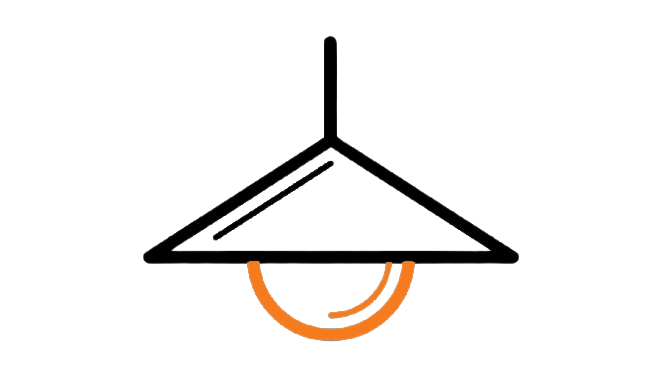
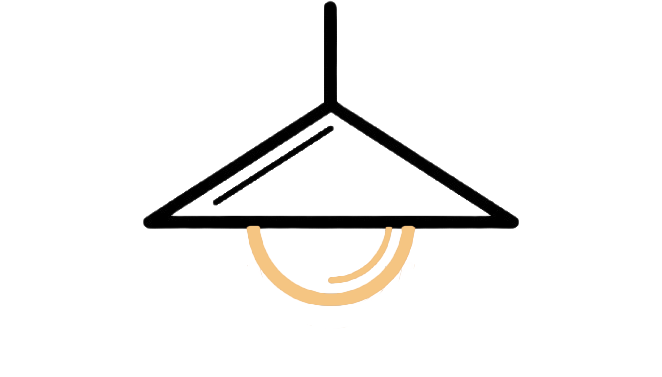
reworked logic advantages animation lamp

Changed region(s): [[0.2115, 0.2626, 0.7855, 0.9045], [0.4834, 0.0, 0.5136, 0.1167]]

diff --git a/assets/css/main.css b/assets/css/main.css
@@ -49,7 +49,7 @@
   }
 }
 .custom__btn:hover, .header__center__btn:hover {
-  background-color: #f57b1d;
+  background-color: #f5c582;
 }
 .custom__btn:hover i, .header__center__btn:hover i {
   text-shadow: 0px -4px 8px #f5c582;
@@ -202,7 +202,7 @@ html {
 }
 
 .header__background {
-  background-color: rgba(245, 123, 29, 0);
+  background-color: rgba(245, 197, 130, 0);
 }
 
 .header__logo__wrapper {
@@ -377,8 +377,8 @@ html {
 }
 .header__menu__items__box li:hover {
   top: -0.1vw;
-  color: #f57b1d;
-  text-shadow: 1px 8px 8px #f57b1d;
+  color: #f5c582;
+  text-shadow: 1px 8px 8px #f5c582;
 }
 
 .header__lang__box {
@@ -665,6 +665,7 @@ html {
 /* ============================= ADVANTAGES ============================= */
 .advantages__block {
   background-color: #797878;
+  border-top: 5px solid #000;
 }
 .advantages__block {
   width: 95%;
@@ -689,7 +690,6 @@ html {
 .advantages__item {
   position: relative;
   padding-bottom: 5vw;
-  border-radius: 50%;
 }
 .advantages__item {
   width: 23%;
@@ -711,13 +711,10 @@ html {
   justify-content: center;
 }
 
-.a {
-  background-color: #FFF;
-}
-
 .advantages__lamp__wrapper {
-  position: absolute;
+  position: relative;
   top: 0;
+  gap: 1vw;
 }
 .advantages__lamp__wrapper {
   width: 10vw;
@@ -739,22 +736,71 @@ html {
     flex-grow: -1;
   }
 }
+.advantages__lamp__wrapper {
+  display: flex;
+  flex-direction: column;
+  align-items: center;
+  justify-content: unset;
+}
 .advantages__lamp__wrapper img {
-  filter: brightness(0);
-  transition: 0.4s;
+  filter: brightness(1);
+  transition: 0.3s;
+}
+
+.rays__box {
+  position: absolute;
+  height: 2.5vw;
+  bottom: -2.5vw;
+  gap: 0.5vw;
+}
+.rays__box {
+  display: flex;
+  flex-direction: column;
+  align-items: center;
+  justify-content: unset;
+}
+.rays__box .ray {
+  background-color: #f5c582;
+  border-radius: 30px 0 30px 0;
+  filter: blur(1.5px);
+  box-shadow: 0 0 5px 1px #f5c582;
+}
+.rays__box .ray:nth-child(1) {
+  width: calc(20px + 20px * 0);
+  height: 0.2vw;
+  transition: calc(0.4s + 0.1s * 0);
+}
+.rays__box .ray:nth-child(2) {
+  width: calc(20px + 20px * 1);
+  height: 0.2vw;
+  transition: calc(0.4s + 0.1s * 1);
+}
+.rays__box .ray:nth-child(3) {
+  width: calc(20px + 20px * 2);
+  height: 0.2vw;
+  transition: calc(0.4s + 0.1s * 2);
+}
+.rays__box .ray:nth-child(4) {
+  width: calc(20px + 20px * 3);
+  height: 0.2vw;
+  transition: calc(0.4s + 0.1s * 3);
 }
 
 .advantages__item__content__box {
   border-radius: 10px;
-  outline: 1px solid #000;
+  background-color: #f5c582;
+  outline: 3px solid #000;
+  box-shadow: 4px 7px 20px 10px #000;
   padding: 1vw 2.5%;
+  transition: 0.6s;
   gap: 1vw;
+  color: #FFF;
 }
 .advantages__item__content__box {
   width: 95%;
   padding-left: 2.5%;
   padding-right: 2.5%;
-  margin-top: 15vh;
+  margin-top: 8vh;
   height: auto;
 }
 @media screen and (max-width: 800px) {
@@ -770,10 +816,9 @@ html {
   justify-content: unset;
 }
 
-/* заменить в области преимуществ курсор на фонарик, 
+/*
 сделать класс для автоматического перелистования
 менять лампочку через брайтнесс
-размытие "фонарика"
-эффект свечения от лампы (лучи)?
+продумать переход ручной от итема к итему !
 */
 /* ============================= ADVANTAGES ============================= */

diff --git a/assets/scss/main.scss b/assets/scss/main.scss
@@ -4,7 +4,7 @@
 
 // ПЕРЕМЕННЫЕ 
 $color1: #797878;
-$color2: #f57b1d;
+$color2: #f5c582;
 $color3: #f5c582;
 $fontColor: #000;
 $font1: 'Montserrat';
@@ -589,6 +589,7 @@ html {
 
 .advantages__block{
   background-color: $color1;
+  border-top: 5px solid #000;
 
   @include box(100%, 2.5%);
   @include flex__box(row, center, space-between);
@@ -597,44 +598,68 @@ html {
 .advantages__item{
   position: relative;
   padding-bottom: 5vw;
-  border-radius: 50%;
   
   @include box(23%);
   @include flex__box(column, center, center);
 }
 
-.a{
-  background-color: #FFF;
-}
-
 .advantages__lamp__wrapper{
-  position: absolute;
+  position: relative;
   top: 0;
+  gap: 1vw;
   
   @include img_box(10vw, 10vh);
+  @include flex__box(column, center);
 
   & img{
-    filter: brightness(0);
-    transition: .4s;
+    filter: brightness(1);
+    transition: .3s;
   }
+}
+
+.rays__box{
+  position: absolute;
+  height: 2.5vw;
+  bottom: -2.5vw;
+  gap: 0.5vw;
+
+  @include flex__box(column, center);
+
+  & .ray{
+    background-color: $color2;
+    border-radius: 30px 0 30px 0;
+    filter: blur(1.5px);
+    box-shadow: 0 0 5px 1px $color2;
+
+    @for $i from 1 through 4 {
+      &:nth-child(#{$i}) {
+        width: calc(#{20px} + #{20px} * #{$i - 1});
+        height: 0.2vw;
+        transition: calc(#{0.4s} + #{0.1s} * #{$i - 1});
+      }
+    }
+  }
+
 }
 
 .advantages__item__content__box{
   border-radius: 10px;
-  outline: 1px solid #000;
-  //box-shadow: 0px 7px 20px 10px $color2;
+  background-color: $color2;
+  outline: 3px solid #000;
+  box-shadow: 4px 7px 20px 10px #000;
   padding: 1vw 2.5%;
+  transition: .6s;
   gap: 1vw;
+  color: #FFF;
 
-  @include box(100%, 2.5%, auto, 15vh);
+  @include box(100%, 2.5%, auto, 8vh);
   @include flex__box(column, center)
 }
 
-/* заменить в области преимуществ курсор на фонарик, 
+/*
 сделать класс для автоматического перелистования
 менять лампочку через брайтнесс
-размытие "фонарика"
-эффект свечения от лампы (лучи)?
+продумать переход ручной от итема к итему !
 */
 
 /* ============================= ADVANTAGES ============================= */

diff --git a/front-page.php b/front-page.php
@@ -1,8 +1,15 @@
 <?php get_header();  ?>
 
 <div class="advantages__block">
-    <div class="advantages__item a">
-        <div class="advantages__lamp__wrapper"><img src="<?php echo get_template_directory_uri(); ?>/assets/img/lamp.png" alt="AdvantagesLamp"></div>
+    <div class="advantages__item active">
+        <div class="advantages__lamp__wrapper">
+            <img src="<?php echo get_template_directory_uri(); ?>/assets/img/lamp.png" alt="AdvantagesLamp">
+            <div class="rays__box">
+                <div class="ray ray__first"></div>
+                <div class="ray ray__second"></div>
+                <div class="ray ray__third"></div>
+            </div>
+        </div>
         <div class="advantages__item__content__box">
             <div class="advantages__item__title">1</div>
             <div class="advantages__item__subtitle">2</div>
